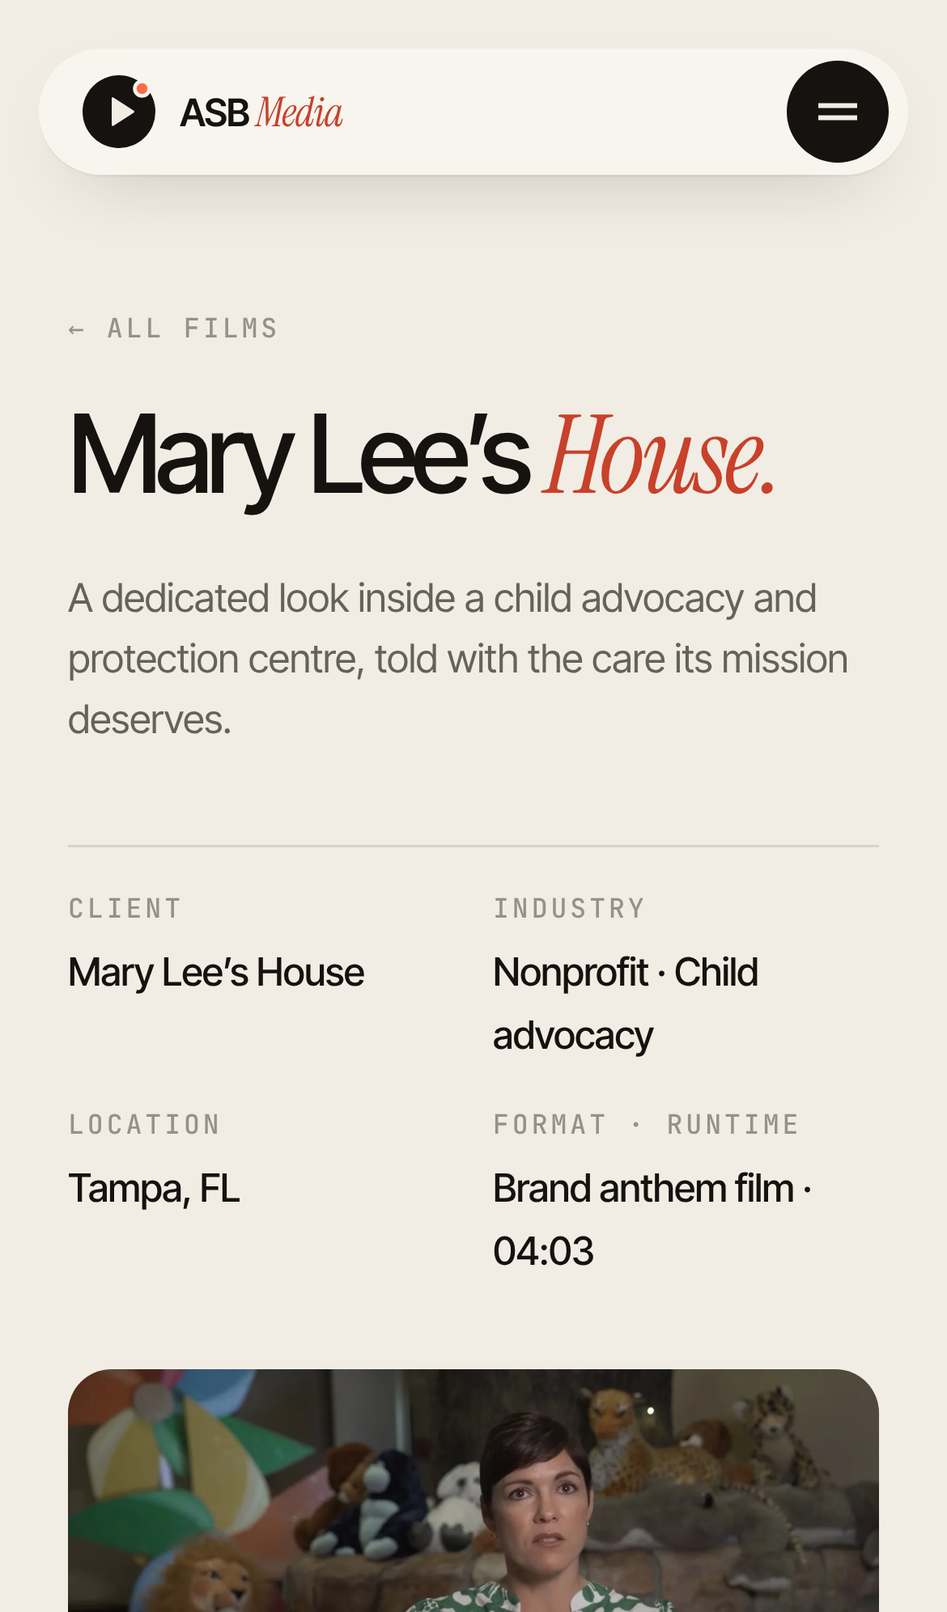
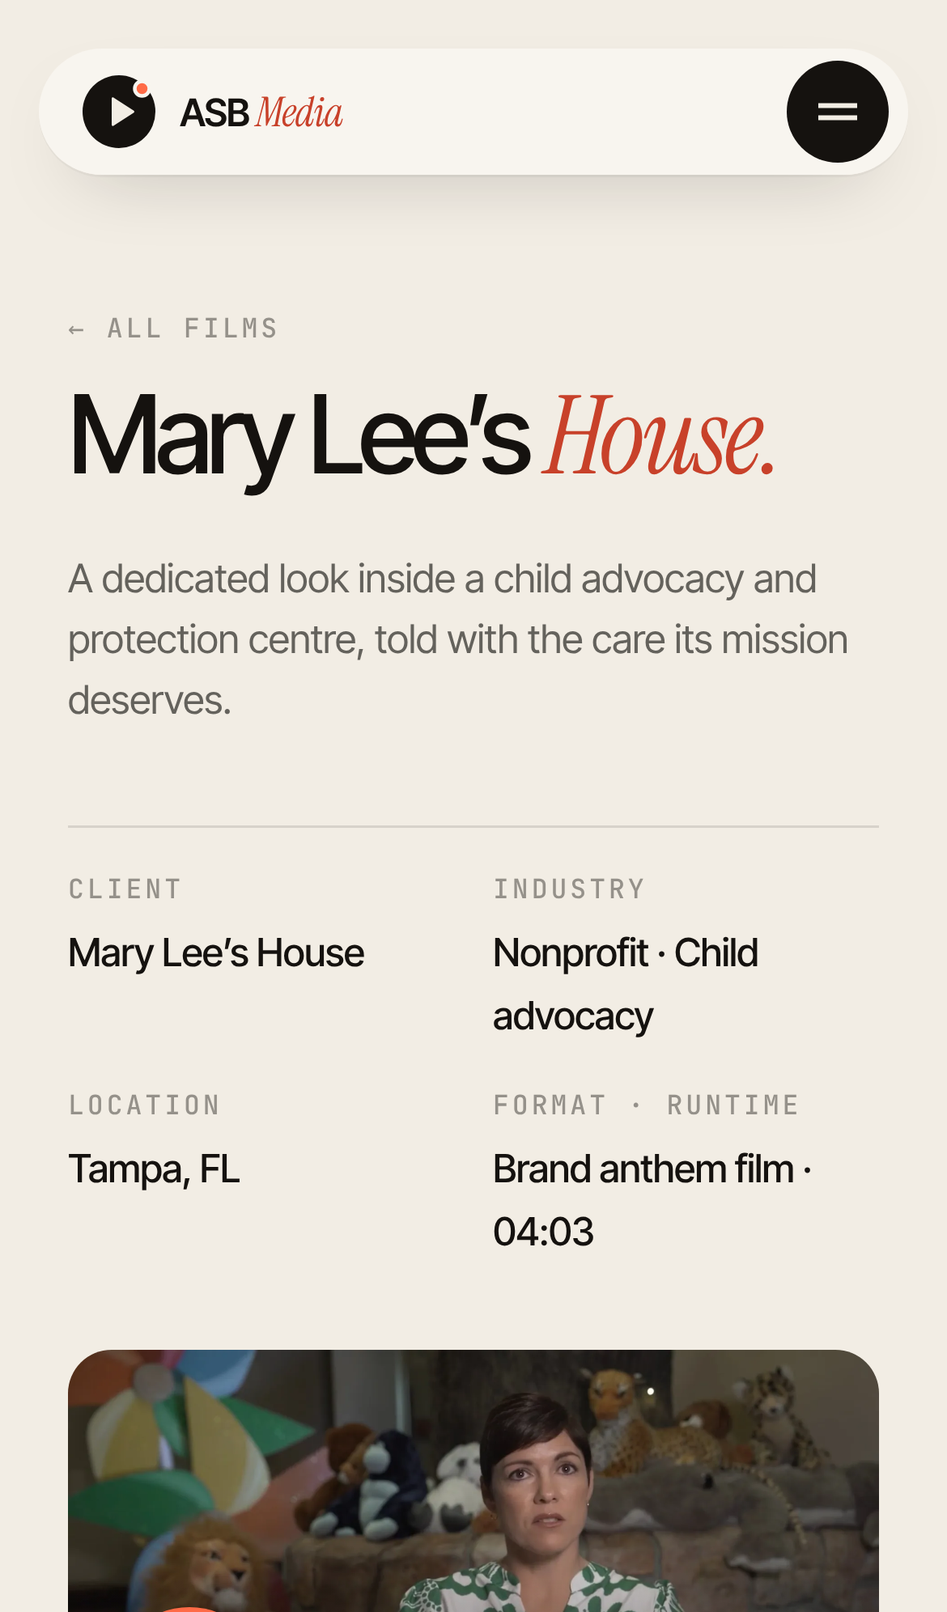
Tighten vertical rhythm and fill empty sections
- One spacing unit between blocks: sections pad only their top, so gaps
  never stack (was up to 370px before the closing panel, now ~96px)
- Smaller, consistent section/eyebrow/heading margins; tighter panels
- Word ticker moved inside the bottom of the services panel
- Films: asymmetric 7/5 grid (even columns while filtered on Work)
- Film finder: quiz card sized to its content; four format previews in a
  row below that light up the visitor's match
- Reply-time tile gains a personal 'Aramis replies' row
- Phones: services become a swipe row (panel ~2400px -> ~850px)
- Home page 8,897px -> 7,961px at desktop

Claude-Session: https://claude.ai/code/session_01S9bQt4xGAZfUpJSMDLJqhp

diff --git a/assets/css/styles.css b/assets/css/styles.css
@@ -34,7 +34,7 @@
 
   --gutter: clamp(16px, 2.2vw, 32px);
   --inner: clamp(20px, 3.4vw, 56px);
-  --section: clamp(72px, 9vw, 128px);
+  --section: clamp(56px, 6.6vw, 96px);
   --gap: clamp(10px, 1vw, 14px);
   --r-xl: clamp(18px, 1.8vw, 28px);
   --r-lg: clamp(14px, 1.3vw, 20px);
@@ -67,10 +67,10 @@ ul, ol { list-style: none; padding: 0; }
 
 /* ---------- Layout ---------- */
 .wrap { width: 100%; max-width: 1440px; margin-inline: auto; padding-inline: calc(var(--gutter) + var(--inner) - 8px); }
-.section { padding-block: var(--section); position: relative; }
-.section--tight { padding-block: calc(var(--section) * .6); }
-.section + .section { padding-top: 0; }
-.rule { position: relative; height: 1px; background: var(--line); margin-bottom: clamp(28px, 3vw, 44px); }
+/* One spacing unit between blocks: sections only pad their top, so gaps never stack. */
+.section { padding-top: var(--section); position: relative; }
+main { padding-bottom: var(--section); }
+.rule { position: relative; height: 1px; background: var(--line); margin-bottom: clamp(20px, 2.2vw, 30px); }
 .rule::before { content: ""; position: absolute; left: 0; top: 0; width: clamp(64px, 9vw, 140px); height: 1px; background: var(--accent); }
 .dark .rule { background: var(--line-dark); }
 .dark .rule::before { background: var(--accent-light); }
@@ -79,7 +79,8 @@ ul, ol { list-style: none; padding: 0; }
 .panel { margin-inline: var(--gutter); border-radius: var(--r-xl); background: var(--panel); color: var(--on-dark); position: relative; overflow: hidden; isolation: isolate; }
 .panel .wrap { padding-inline: var(--inner); }
 .panel::before { content: ""; position: absolute; inset: 0; z-index: -1; background: radial-gradient(60% 50% at 85% 0%, rgba(255, 107, 71, .12), transparent 70%), radial-gradient(50% 60% at 0% 100%, rgba(242, 237, 228, .05), transparent 70%); }
-.panel .section { padding-block: clamp(64px, 8vw, 112px); }
+.panel { margin-top: var(--section); }
+.panel .section { padding-block: clamp(44px, 5.2vw, 76px); }
 
 /* ---------- Type ---------- */
 .hero-title, .h1, .h2, .h3 { font-family: var(--f-sans); font-weight: 500; text-wrap: balance; }
@@ -105,13 +106,13 @@ em, .serif { font-family: var(--f-serif); font-style: italic; font-weight: 400; 
 .dark .accent { color: var(--accent-light); }
 
 /* Eyebrow row: "(01) — The studio ............ Tampa · St. Pete" */
-.eyebrow-row { display: flex; justify-content: space-between; align-items: baseline; gap: 16px; color: var(--faint); margin-bottom: clamp(24px, 3vw, 44px); }
+.eyebrow-row { display: flex; justify-content: space-between; align-items: baseline; gap: 16px; color: var(--faint); margin-bottom: clamp(16px, 2vw, 28px); }
 .dark .eyebrow-row { color: var(--on-dark-faint); }
 .eyebrow-row .num { color: var(--accent); }
 .dark .eyebrow-row .num { color: var(--accent-light); }
 
 /* Section head: headline left, paragraph right */
-.head { display: grid; grid-template-columns: minmax(0, 1.25fr) minmax(0, 1fr); gap: 24px var(--inner); align-items: end; margin-bottom: clamp(32px, 4vw, 56px); }
+.head { display: grid; grid-template-columns: minmax(0, 1.25fr) minmax(0, 1fr); gap: 24px var(--inner); align-items: end; margin-bottom: clamp(26px, 2.8vw, 40px); }
 .head__aside { justify-self: end; max-width: 40ch; display: grid; gap: 18px; justify-items: start; }
 
 /* ---------- Buttons ---------- */
@@ -232,6 +233,11 @@ em, .serif { font-family: var(--f-serif); font-style: italic; font-weight: 400; 
 
 /* ---------- Media cards ---------- */
 .grid-2 { display: grid; grid-template-columns: repeat(2, minmax(0, 1fr)); gap: var(--gap); }
+.films { display: grid; grid-template-columns: repeat(12, minmax(0, 1fr)); grid-auto-rows: clamp(300px, 29vw, 430px); gap: var(--gap); }
+.films > :nth-child(4n+1), .films > :nth-child(4n) { grid-column: span 7; }
+.films > :nth-child(4n+2), .films > :nth-child(4n+3) { grid-column: span 5; }
+.films.is-filtered > * { grid-column: span 6; }
+.films .mcard__img { display: block; aspect-ratio: auto; height: 100%; }
 .mcard { position: relative; display: block; border-radius: var(--r-lg); overflow: hidden; isolation: isolate; color: var(--on-dark); background: var(--panel); }
 .mcard__img { aspect-ratio: 16 / 11; }
 .mcard--wide .mcard__img { aspect-ratio: 16 / 9; }
@@ -299,14 +305,26 @@ em, .serif { font-family: var(--f-serif); font-style: italic; font-weight: 400; 
 .ticker__item { display: inline-flex; align-items: center; font-size: clamp(2.2rem, 5vw, 4.6rem); font-weight: 500; letter-spacing: -.055em; line-height: 1; white-space: nowrap; padding-right: clamp(20px, 2.4vw, 36px); }
 .ticker__item em { color: var(--accent); }
 .ticker__item::after { content: "✦"; font-size: .32em; color: var(--accent); margin-left: clamp(20px, 2.4vw, 36px); }
+.panel .ticker { border: 0; border-top: 1px solid var(--line-dark); padding-block: clamp(20px, 2.4vw, 34px); }
+.panel .ticker__item { font-size: clamp(1.9rem, 4vw, 3.6rem); }
+.panel .ticker__item em, .panel .ticker__item::after { color: var(--accent-light); }
 @keyframes tick { to { transform: translateX(-50%); } }
 @media (prefers-reduced-motion: reduce) { .ticker__track { animation: none; } }
 
 /* ---------- Finder ---------- */
 .finder { display: grid; grid-template-columns: minmax(0, 1fr) minmax(0, 1.15fr); gap: var(--gap); align-items: stretch; }
-.finder__intro { border-radius: var(--r-lg); background: var(--bg-2); padding: clamp(24px, 3vw, 44px); display: flex; flex-direction: column; gap: 20px; }
-.finder__intro .chips { margin-top: auto; }
-.finder__card { border-radius: var(--r-lg); background: var(--card); box-shadow: inset 0 0 0 1px var(--line); padding: clamp(24px, 3vw, 44px); min-height: 460px; display: flex; flex-direction: column; }
+.finder__intro { display: flex; flex-direction: column; gap: 18px; padding-right: clamp(0px, 3vw, 48px); }
+.outcomes { display: grid; grid-template-columns: repeat(4, minmax(0, 1fr)); gap: var(--gap); margin-top: var(--gap); }
+.outcome { position: relative; aspect-ratio: 16 / 10; border-radius: 12px; overflow: hidden; background: var(--panel); color: var(--on-dark); transition: opacity .4s, box-shadow .3s, transform .4s var(--ease); }
+.outcome img { width: 100%; height: 100%; object-fit: cover; }
+.outcome::after { content: ""; position: absolute; inset: 0; background: linear-gradient(180deg, transparent 35%, rgba(21, 18, 15, .78)); }
+.outcome span { position: absolute; z-index: 1; left: 12px; right: 12px; bottom: 10px; font-size: .86rem; font-weight: 500; letter-spacing: -.02em; line-height: 1.2; }
+.outcome b { position: absolute; z-index: 1; top: 10px; left: 10px; height: 24px; padding: 0 10px; border-radius: 999px; background: var(--accent); color: #fff; font-size: .7rem; font-weight: 500; display: none; align-items: center; }
+.outcomes.has-match .outcome:not(.is-match) { opacity: .38; }
+.outcome.is-match { box-shadow: 0 0 0 2px var(--accent); transform: translateY(-2px); }
+.outcome.is-match b { display: inline-flex; }
+.finder__hint { color: var(--faint); }
+.finder__card { border-radius: var(--r-lg); background: var(--card); box-shadow: inset 0 0 0 1px var(--line); padding: clamp(22px, 2.6vw, 38px); display: flex; flex-direction: column; }
 .finder__bar { display: flex; gap: 6px; margin-bottom: 26px; }
 .finder__bar i { flex: 1; height: 3px; border-radius: 3px; background: var(--line); position: relative; overflow: hidden; }
 .finder__bar i::after { content: ""; position: absolute; inset: 0; background: var(--accent); transform: scaleX(0); transform-origin: left; transition: transform .5s var(--ease); }
@@ -352,8 +370,8 @@ em, .serif { font-family: var(--f-serif); font-style: italic; font-weight: 400; 
 .polaroid figcaption .mono { color: var(--faint); }
 
 /* ---------- Closing CTA + footer (one dark panel) ---------- */
-.closing { margin: var(--section) var(--gutter) var(--gutter); }
-.closing__cta { padding: clamp(56px, 8vw, 120px) var(--inner) clamp(40px, 5vw, 72px); display: grid; gap: clamp(24px, 3vw, 40px); }
+.closing { margin: 0 var(--gutter) var(--gutter); }
+.closing__cta { padding: clamp(44px, 5.6vw, 84px) var(--inner) clamp(32px, 3.6vw, 52px); display: grid; gap: clamp(20px, 2.4vw, 32px); }
 .closing__row { display: flex; justify-content: space-between; align-items: flex-end; gap: 24px; flex-wrap: wrap; }
 .closing__contact { display: flex; gap: clamp(20px, 3vw, 48px); flex-wrap: wrap; }
 .closing__contact a { display: block; font-size: clamp(1.05rem, 1.4vw, 1.3rem); letter-spacing: -.02em; margin-top: 6px; transition: color .2s; }
@@ -594,4 +612,23 @@ textarea.input { height: auto; min-height: 120px; padding: 14px 16px; resize: ve
   .mcard__img { aspect-ratio: 4 / 5; }
   .mcard--wide .mcard__img { aspect-ratio: 4 / 5; }
   .hero__meta > :last-child { display: none; }
+}
+
+@media (max-width: 640px) {
+  .films { grid-template-columns: 1fr; grid-auto-rows: auto; }
+  .films > *, .films.is-filtered > * { grid-column: 1 / -1 !important; }
+  .films .mcard__img { aspect-ratio: 4 / 5; height: auto; }
+  .finder__intro { padding-right: 0; }
+}
+.head:last-child, .eyebrow-row:last-child { margin-bottom: 0; }
+.replyrow { display: flex; align-items: center; gap: 10px; padding: 10px 12px 10px 10px; border-radius: 999px; background: var(--bg); box-shadow: inset 0 0 0 1px var(--line); align-self: flex-start; }
+.replyrow__av { width: 34px; height: 34px; border-radius: 50%; display: grid; place-items: center; background: var(--ink); color: var(--on-dark); font-size: .74rem; font-weight: 600; letter-spacing: -.03em; }
+.replyrow b { display: block; font-weight: 500; font-size: .88rem; letter-spacing: -.02em; line-height: 1.2; }
+.replyrow small { display: block; font-size: .74rem; color: var(--muted); }
+@media (max-width: 900px) { .outcomes { grid-template-columns: repeat(2, minmax(0, 1fr)); } }
+@media (max-width: 640px) {
+  /* Services become a swipe row on phones instead of four stacked cards */
+  .svc { display: flex; overflow-x: auto; scroll-snap-type: x mandatory; scrollbar-width: none; margin-inline: calc(-1 * var(--inner)); padding-inline: var(--inner); scroll-padding-inline: var(--inner); }
+  .svc::-webkit-scrollbar { display: none; }
+  .svc__card { flex: 0 0 80%; scroll-snap-align: start; }
 }

diff --git a/index.html b/index.html
@@ -144,7 +144,7 @@
             <a class="link" href="work.html">All films <svg viewBox="0 0 24 24" fill="none" stroke="currentColor" stroke-width="1.6" aria-hidden="true"><path d="M7 17 17 7M8 7h9v9"/></svg></a>
           </div>
         </div>
-        <div class="grid-2">
+        <div class="films">
           <article class="mcard" data-r>
             <a href="film-mary-lees-house.html" class="mcard__img" aria-label="Mary Lee’s House case study"><img src="assets/img/film-mary-crop.webp" style="object-position:50% 30%" alt="Interview at Mary Lee’s House" loading="lazy" width="1044" height="1013"></a>
             <span class="mcard__tag"><span class="dot"></span> Brand film · 04:03</span>
@@ -184,7 +184,7 @@
         </div>
         <div class="bento">
           <div class="tile" style="grid-column: span 4" data-r>
-            <div class="tile__top mono"><span>Capture</span><span class="chip">Every shoot</span></div>
+            <div class="tile__top mono"><span>Capture</span><span>Every shoot</span></div>
             <p class="tile__big">4K<em>cinema</em></p>
             <p class="small">Cinema cameras, considered light and clean sound, graded for every screen.</p>
           </div>
@@ -205,6 +205,7 @@
           </div>
           <div class="tile" style="grid-column: span 4; --d:.06s" data-r>
             <div class="tile__top mono"><span>Reply time</span><span class="dot dot--live"></span></div>
+            <div class="replyrow"><span class="replyrow__av">AB</span><span><b>Aramis Booker</b><small>Founder · replies personally</small></span></div>
             <p class="tile__big">48<em>hours</em></p>
             <p class="small">At most. Usually the next business day, straight from the person directing your film.</p>
           </div>
@@ -248,13 +249,12 @@
           </div>
         </div>
       </section>
-    </div>
-
-    <!-- TICKER -->
-    <div class="ticker" aria-hidden="true" style="margin-top: var(--section)">
-      <div class="ticker__track">
-        <div class="ticker__group"><span class="ticker__item">Strategy</span><span class="ticker__item"><em>Script</em></span><span class="ticker__item">Shoot</span><span class="ticker__item"><em>Edit</em></span><span class="ticker__item">Colour</span><span class="ticker__item"><em>Sound</em></span><span class="ticker__item">Deliver</span></div>
-        <div class="ticker__group"><span class="ticker__item">Strategy</span><span class="ticker__item"><em>Script</em></span><span class="ticker__item">Shoot</span><span class="ticker__item"><em>Edit</em></span><span class="ticker__item">Colour</span><span class="ticker__item"><em>Sound</em></span><span class="ticker__item">Deliver</span></div>
+        <!-- ticker closes the dark panel -->
+      <div class="ticker" aria-hidden="true">
+        <div class="ticker__track">
+          <div class="ticker__group"><span class="ticker__item">Strategy</span><span class="ticker__item"><em>Script</em></span><span class="ticker__item">Shoot</span><span class="ticker__item"><em>Edit</em></span><span class="ticker__item">Colour</span><span class="ticker__item"><em>Sound</em></span><span class="ticker__item">Deliver</span></div>
+          <div class="ticker__group"><span class="ticker__item">Strategy</span><span class="ticker__item"><em>Script</em></span><span class="ticker__item">Shoot</span><span class="ticker__item"><em>Edit</em></span><span class="ticker__item">Colour</span><span class="ticker__item"><em>Sound</em></span><span class="ticker__item">Deliver</span></div>
+        </div>
       </div>
     </div>
 
@@ -265,8 +265,9 @@
         <div class="finder">
           <div class="finder__intro" data-r>
             <h2 class="h2">Not sure what you <em>need?</em></h2>
-            <p class="muted measure">Answer three quick questions. We’ll recommend the right format and carry your answers into a ready-made brief.</p>
-            <div class="chips"><span class="chip">No email needed</span><span class="chip">Instant answer</span></div>
+            <p class="muted measure">Answer three quick questions. We’ll match you to one of four formats and carry your answers into a ready-made brief.</p>
+            <p class="mono finder__hint">3 questions · 20 seconds · no email needed</p>
+            <p class="small muted" style="margin-top:auto">Your match lights up below, with a real ASB film to watch as an example.</p>
           </div>
           <div class="finder__card" data-finder data-r style="--d:.08s">
             <div class="finder__bar" aria-hidden="true"><i></i><i></i><i></i></div>
@@ -317,6 +318,13 @@
             </div>
           </div>
         </div>
+        <div class="outcomes" data-outcomes data-r>
+          <div class="outcome" data-outcome="anthem"><img src="assets/img/film-mary-crop.webp" alt="" loading="lazy" sizes="240px" width="1044" height="1013"><b>Your match</b><span>Brand anthem film</span></div>
+          <div class="outcome" data-outcome="product"><img src="assets/img/prod-06-sm.webp" alt="" loading="lazy" sizes="240px" width="900" height="600" srcset="assets/img/prod-06-sm.webp 900w, assets/img/prod-06.webp 1800w"><b>Your match</b><span>Product showcase</span></div>
+          <div class="outcome" data-outcome="social"><img src="assets/img/film-funbike-sm.webp" alt="" loading="lazy" sizes="240px" width="900" height="506" srcset="assets/img/film-funbike-sm.webp 900w, assets/img/film-funbike.webp 1800w"><b>Your match</b><span>Social ad campaign</span></div>
+          <div class="outcome" data-outcome="explainer"><img src="assets/img/film-teco-sm.webp" alt="" loading="lazy" sizes="240px" width="900" height="506" srcset="assets/img/film-teco-sm.webp 900w, assets/img/film-teco.webp 1800w"><b>Your match</b><span>Field feature</span></div>
+        </div>
+
       </div>
     </section>
 

diff --git a/src/pages/index.html b/src/pages/index.html
@@ -65,7 +65,7 @@
             <a class="link" href="work.html">All films {{icon:arrow-ur}}</a>
           </div>
         </div>
-        <div class="grid-2">
+        <div class="films">
           <article class="mcard" data-r>
             <a href="film-mary-lees-house.html" class="mcard__img" aria-label="Mary Lee’s House case study"><img src="assets/img/film-mary-crop.webp" style="object-position:50% 30%" alt="Interview at Mary Lee’s House" loading="lazy"></a>
             <span class="mcard__tag"><span class="dot"></span> Brand film · 04:03</span>
@@ -105,7 +105,7 @@
         </div>
         <div class="bento">
           <div class="tile" style="grid-column: span 4" data-r>
-            <div class="tile__top mono"><span>Capture</span><span class="chip">Every shoot</span></div>
+            <div class="tile__top mono"><span>Capture</span><span>Every shoot</span></div>
             <p class="tile__big">4K<em>cinema</em></p>
             <p class="small">Cinema cameras, considered light and clean sound, graded for every screen.</p>
           </div>
@@ -126,6 +126,7 @@
           </div>
           <div class="tile" style="grid-column: span 4; --d:.06s" data-r>
             <div class="tile__top mono"><span>Reply time</span><span class="dot dot--live"></span></div>
+            <div class="replyrow"><span class="replyrow__av">AB</span><span><b>Aramis Booker</b><small>Founder · replies personally</small></span></div>
             <p class="tile__big">48<em>hours</em></p>
             <p class="small">At most. Usually the next business day, straight from the person directing your film.</p>
           </div>
@@ -169,13 +170,12 @@
           </div>
         </div>
       </section>
-    </div>
-
-    <!-- TICKER -->
-    <div class="ticker" aria-hidden="true" style="margin-top: var(--section)">
-      <div class="ticker__track">
-        <div class="ticker__group"><span class="ticker__item">Strategy</span><span class="ticker__item"><em>Script</em></span><span class="ticker__item">Shoot</span><span class="ticker__item"><em>Edit</em></span><span class="ticker__item">Colour</span><span class="ticker__item"><em>Sound</em></span><span class="ticker__item">Deliver</span></div>
-        <div class="ticker__group"><span class="ticker__item">Strategy</span><span class="ticker__item"><em>Script</em></span><span class="ticker__item">Shoot</span><span class="ticker__item"><em>Edit</em></span><span class="ticker__item">Colour</span><span class="ticker__item"><em>Sound</em></span><span class="ticker__item">Deliver</span></div>
+        <!-- ticker closes the dark panel -->
+      <div class="ticker" aria-hidden="true">
+        <div class="ticker__track">
+          <div class="ticker__group"><span class="ticker__item">Strategy</span><span class="ticker__item"><em>Script</em></span><span class="ticker__item">Shoot</span><span class="ticker__item"><em>Edit</em></span><span class="ticker__item">Colour</span><span class="ticker__item"><em>Sound</em></span><span class="ticker__item">Deliver</span></div>
+          <div class="ticker__group"><span class="ticker__item">Strategy</span><span class="ticker__item"><em>Script</em></span><span class="ticker__item">Shoot</span><span class="ticker__item"><em>Edit</em></span><span class="ticker__item">Colour</span><span class="ticker__item"><em>Sound</em></span><span class="ticker__item">Deliver</span></div>
+        </div>
       </div>
     </div>
 
@@ -186,8 +186,9 @@
         <div class="finder">
           <div class="finder__intro" data-r>
             <h2 class="h2">Not sure what you <em>need?</em></h2>
-            <p class="muted measure">Answer three quick questions. We’ll recommend the right format and carry your answers into a ready-made brief.</p>
-            <div class="chips"><span class="chip">No email needed</span><span class="chip">Instant answer</span></div>
+            <p class="muted measure">Answer three quick questions. We’ll match you to one of four formats and carry your answers into a ready-made brief.</p>
+            <p class="mono finder__hint">3 questions · 20 seconds · no email needed</p>
+            <p class="small muted" style="margin-top:auto">Your match lights up below, with a real ASB film to watch as an example.</p>
           </div>
           <div class="finder__card" data-finder data-r style="--d:.08s">
             <div class="finder__bar" aria-hidden="true"><i></i><i></i><i></i></div>
@@ -238,6 +239,13 @@
             </div>
           </div>
         </div>
+        <div class="outcomes" data-outcomes data-r>
+          <div class="outcome" data-outcome="anthem"><img src="assets/img/film-mary-crop.webp" alt="" loading="lazy" sizes="240px"><b>Your match</b><span>Brand anthem film</span></div>
+          <div class="outcome" data-outcome="product"><img src="assets/img/prod-06-sm.webp" alt="" loading="lazy" sizes="240px"><b>Your match</b><span>Product showcase</span></div>
+          <div class="outcome" data-outcome="social"><img src="assets/img/film-funbike-sm.webp" alt="" loading="lazy" sizes="240px"><b>Your match</b><span>Social ad campaign</span></div>
+          <div class="outcome" data-outcome="explainer"><img src="assets/img/film-teco-sm.webp" alt="" loading="lazy" sizes="240px"><b>Your match</b><span>Field feature</span></div>
+        </div>
+
       </div>
     </section>
 

diff --git a/assets/js/main.js b/assets/js/main.js
@@ -159,6 +159,7 @@
       tabs.forEach((t) => { t.classList.toggle("is-active", t === tab); t.setAttribute("aria-pressed", String(t === tab)); });
       const f = tab.dataset.filter;
       $$("[data-cat]", scope).forEach((it) => it.classList.toggle("is-hidden", !(f === "all" || it.dataset.cat.split(" ").includes(f))));
+      scope.classList.toggle("is-filtered", f !== "all");
     };
     tabs.forEach((t) => t.addEventListener("click", () => apply(t)));
     const deep = location.hash && tabs.find((t) => t.dataset.filter === location.hash.slice(1));
@@ -194,8 +195,15 @@
       result.classList.toggle("is-active", done);
       back.hidden = n === 0 || done;
       again.hidden = !done;
+      // Light up the matching format tile beside the quiz
+      const key = done ? decide() : null;
+      const outs = $("[data-outcomes]");
+      if (outs) {
+        outs.classList.toggle("has-match", done);
+        $$("[data-outcome]", outs).forEach((o) => o.classList.toggle("is-match", o.dataset.outcome === key));
+      }
       if (done) {
-        const r = RECS[decide()];
+        const r = RECS[key];
         $("[data-r-name]", result).innerHTML = r.name;
         $("[data-r-run]", result).textContent = r.run;
         $("[data-r-why]", result).textContent = r.why;

diff --git a/work.html b/work.html
@@ -99,7 +99,7 @@
 
     <section>
       <div class="wrap">
-        <div class="grid-2" id="films">
+        <div class="films" id="films">
           <article class="mcard" data-cat="brand" data-r>
             <a href="film-mary-lees-house.html" class="mcard__img" aria-label="Mary Lee’s House case study"><img src="assets/img/film-mary-crop.webp" alt="Interview at Mary Lee’s House" style="object-position:50% 30%" loading="lazy" width="1044" height="1013"></a>
             <span class="mcard__tag"><span class="dot"></span> Brand film · 04:03</span>

diff --git a/src/pages/work.html b/src/pages/work.html
@@ -20,7 +20,7 @@
 
     <section>
       <div class="wrap">
-        <div class="grid-2" id="films">
+        <div class="films" id="films">
           <article class="mcard" data-cat="brand" data-r>
             <a href="film-mary-lees-house.html" class="mcard__img" aria-label="Mary Lee’s House case study"><img src="assets/img/film-mary-crop.webp" alt="Interview at Mary Lee’s House" style="object-position:50% 30%" loading="lazy"></a>
             <span class="mcard__tag"><span class="dot"></span> Brand film · 04:03</span>
